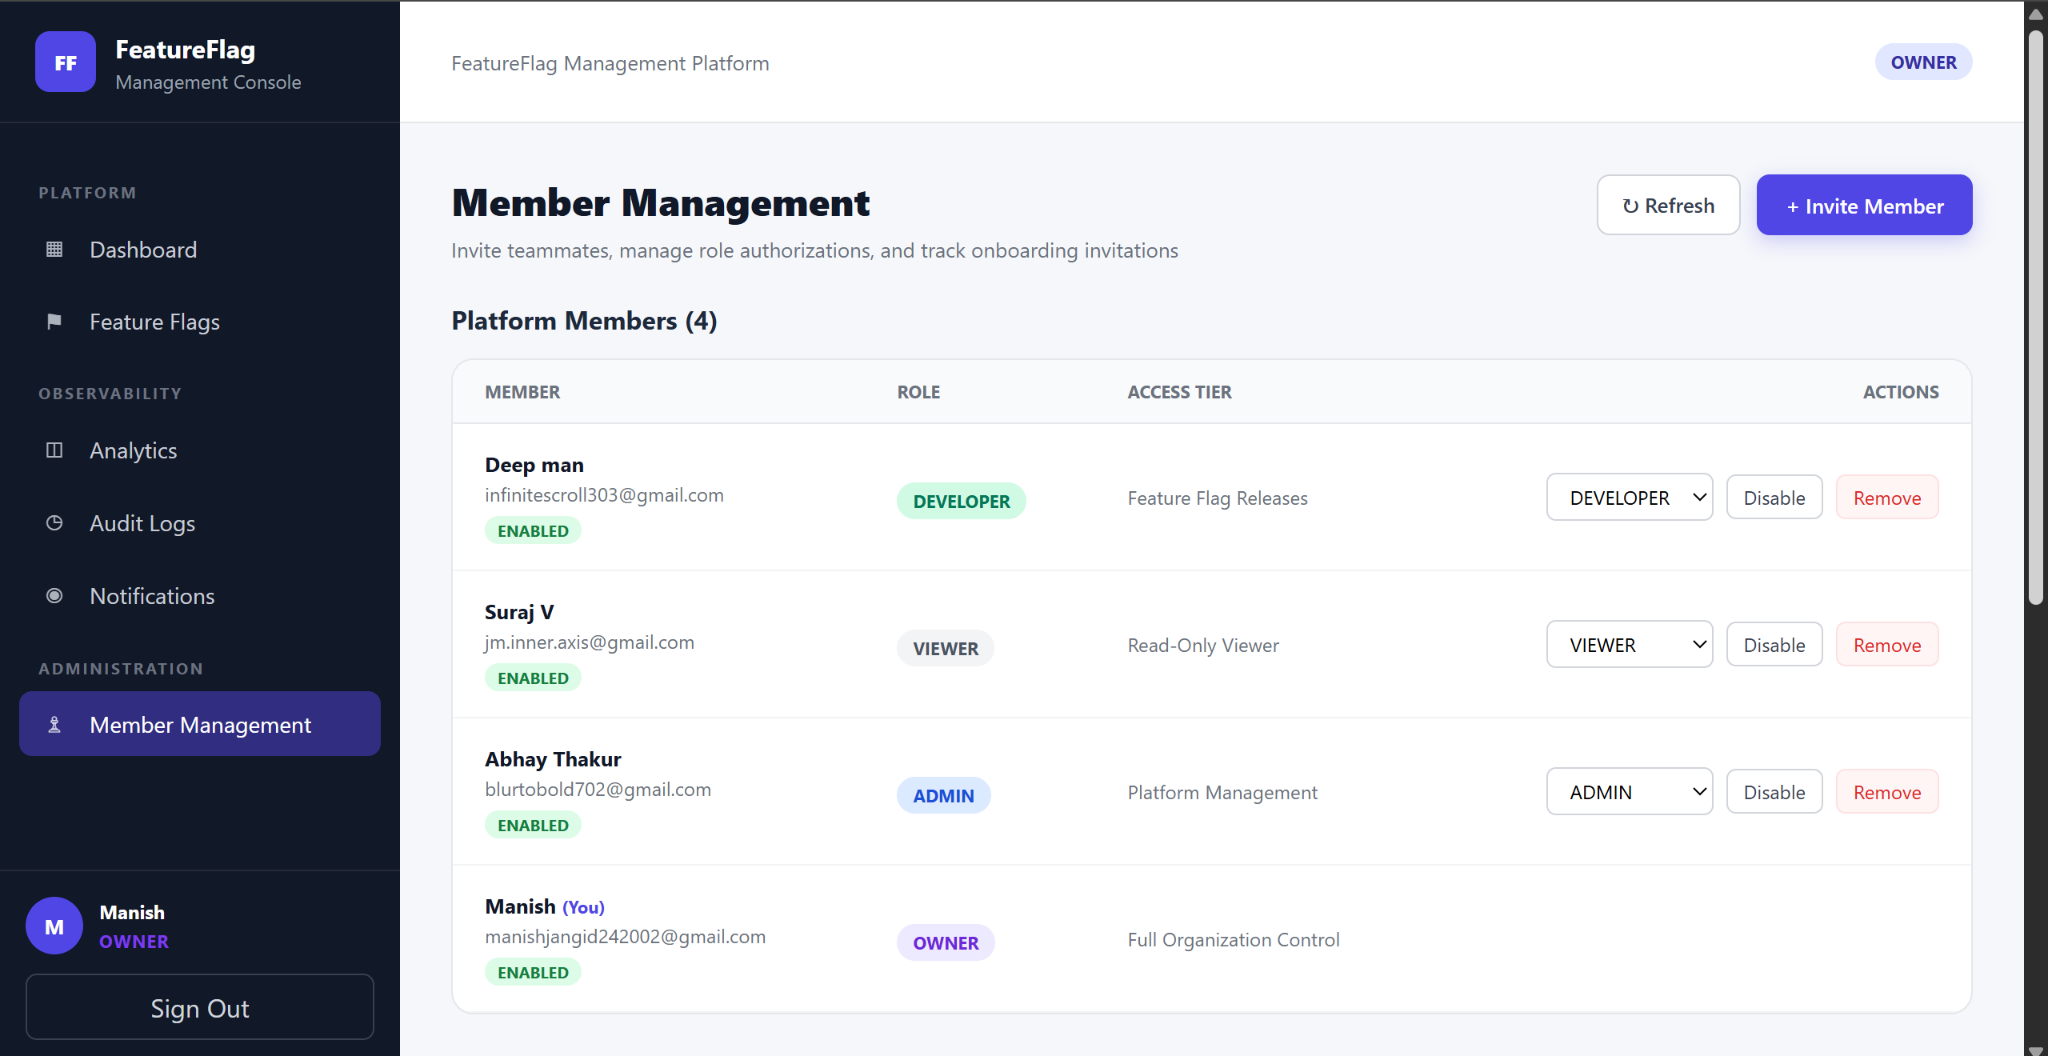
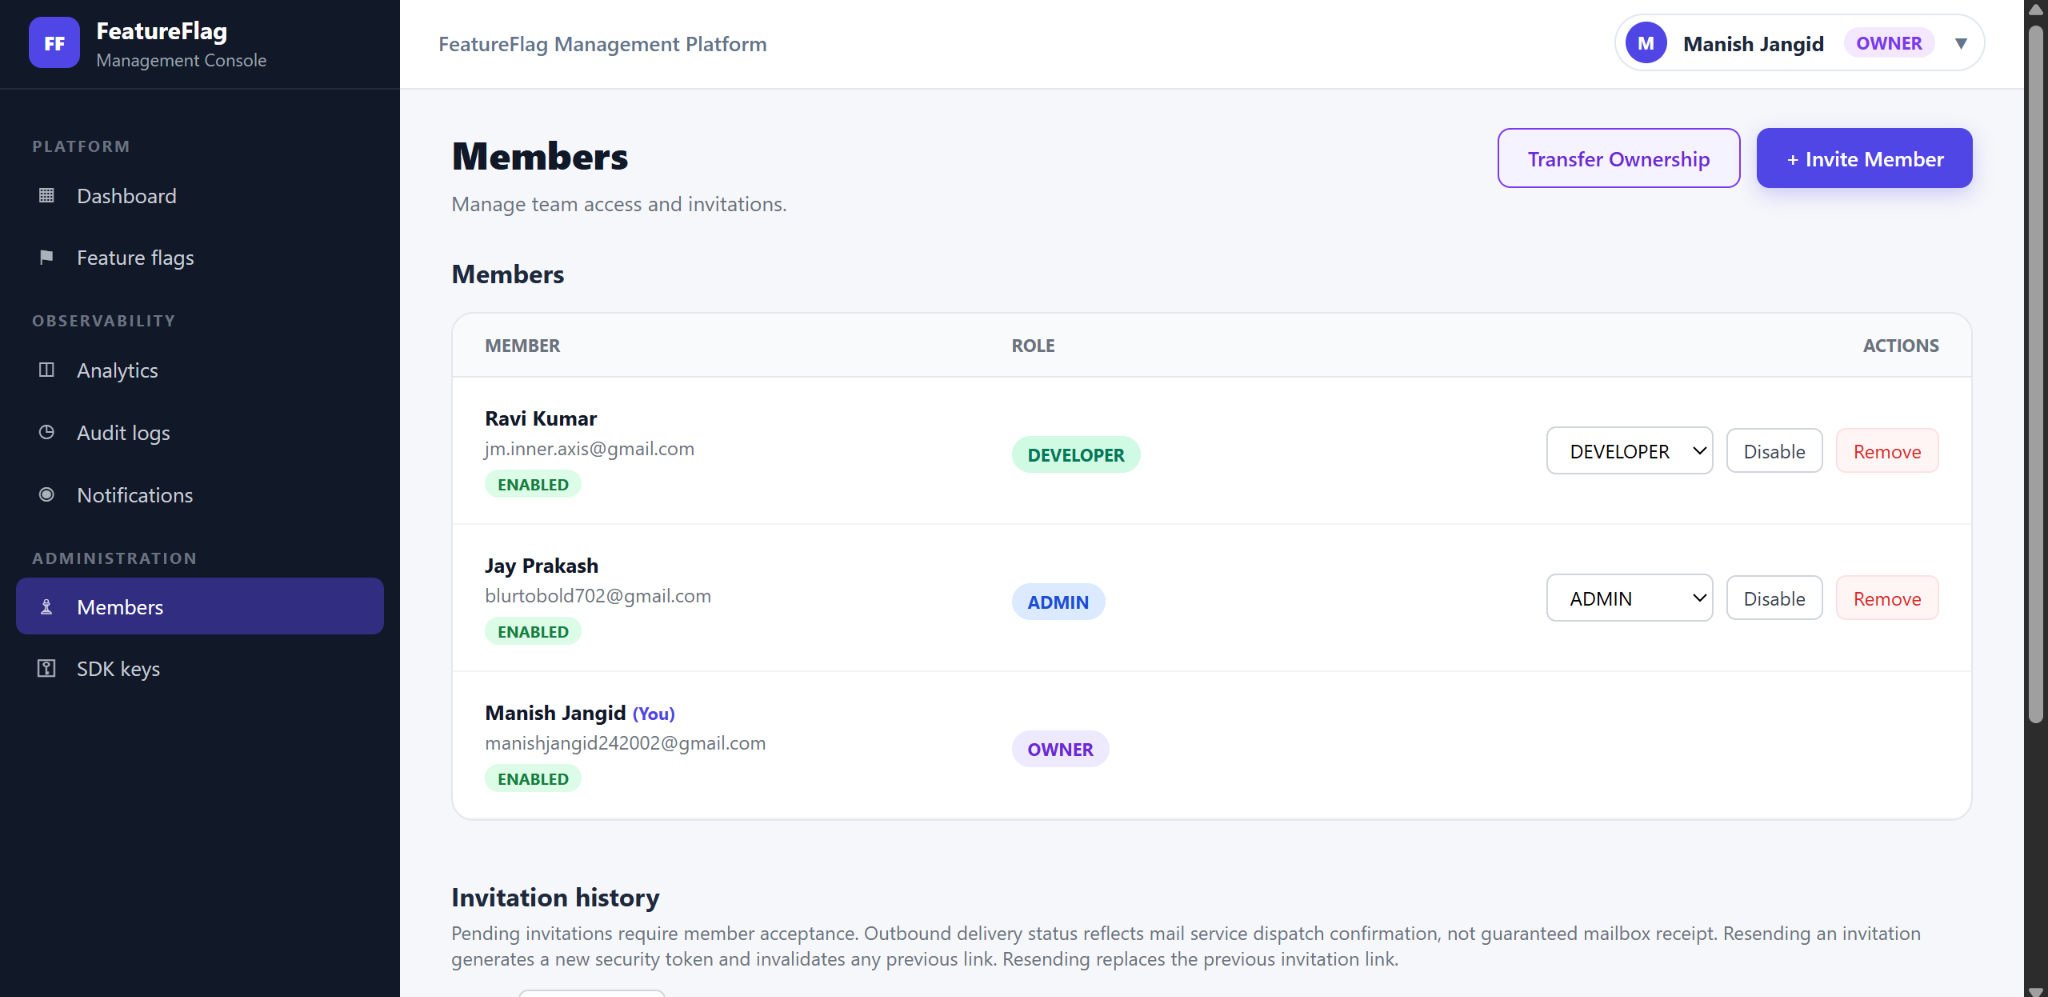
Include member screenshot with confirmed fictitious test accounts

diff --git a/docs/SCREENSHOTS.md b/docs/SCREENSHOTS.md
@@ -22,6 +22,12 @@ Environment, initial state, rollout, description, schedules with timezone contex
 
 ![Flag creation dialog with schedule and targeting configuration](images/create-feature-flag.png)
 
+## Member administration
+
+The supplied names and email addresses are fictitious test data, as confirmed by the project author. The listing illustrates OWNER, ADMIN, and DEVELOPER roles, account state, administrative actions, and invitation semantics.
+
+![Member listing with fictitious test account names and email addresses](images/member-management.png)
+
 ## Invite a member
 
 Administrators invite a recipient with a role; the recipient chooses their own password through the invitation flow.
@@ -42,6 +48,6 @@ The management console requires an existing account; no public self-registration
 
 ## Remaining refreshes
 
-The Members listing, SDK-key metadata listing, Analytics, Audit, and Notifications pages still need current captures. The Members screenshot supplied for this update contains personal email addresses and is excluded from publication. Previous images for these views remain in the repository but are not presented here as refreshed screenshots.
+The SDK-key metadata listing, Analytics, Audit, and Notifications pages still need current captures. Previous images for these views remain in the repository but are not presented here as refreshed screenshots.
 
 For new captures, wait for loading to finish, use consistent browser zoom, and cover personal email addresses. Do not capture raw SDK keys, tokens, passwords, invitation URLs, or browser developer tools containing credentials.

diff --git a/README.md b/README.md
@@ -200,7 +200,7 @@ See the [security and credential details](docs/ENGINEERING.md#security-model).
 
 ## Application walkthrough
 
-Dashboard, flags, creation dialogs, invitation, and login screenshots were refreshed from the application on 11 October 2026. They show sample deployment state, not benchmark results. See the [screenshot gallery](docs/SCREENSHOTS.md) for captures and refresh status.
+Dashboard, flags, members, creation dialogs, invitation, and login screenshots were refreshed from the application on 11 October 2026. They show sample deployment state, not benchmark results. See the [screenshot gallery](docs/SCREENSHOTS.md) for captures and refresh status.
 
 | Screen | What to inspect |
 |---|---|
@@ -218,6 +218,8 @@ Dashboard, flags, creation dialogs, invitation, and login screenshots were refre
 ![Dashboard](docs/images/dashboard.png)
 
 ![Flag configuration](docs/images/create-feature-flag.png)
+
+![Member administration with test accounts](docs/images/member-management.png)
 
 ![Member invitation dialog](docs/images/invite-member.png)
 
